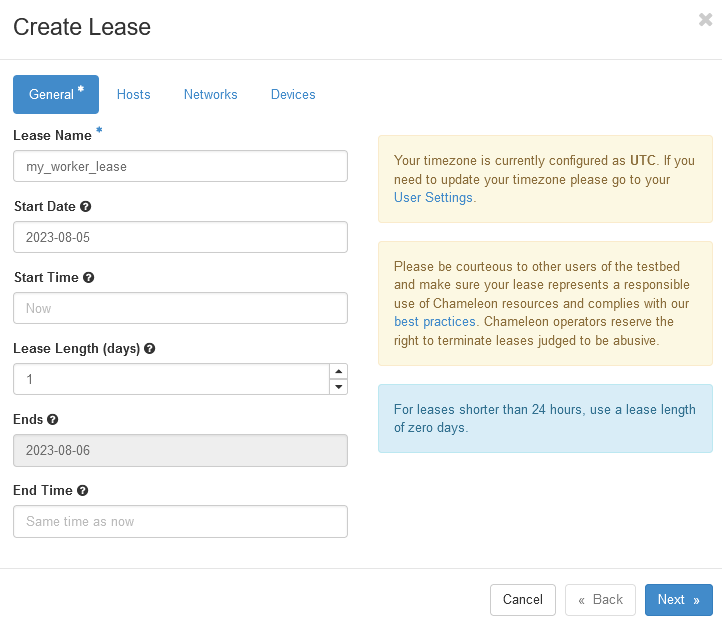
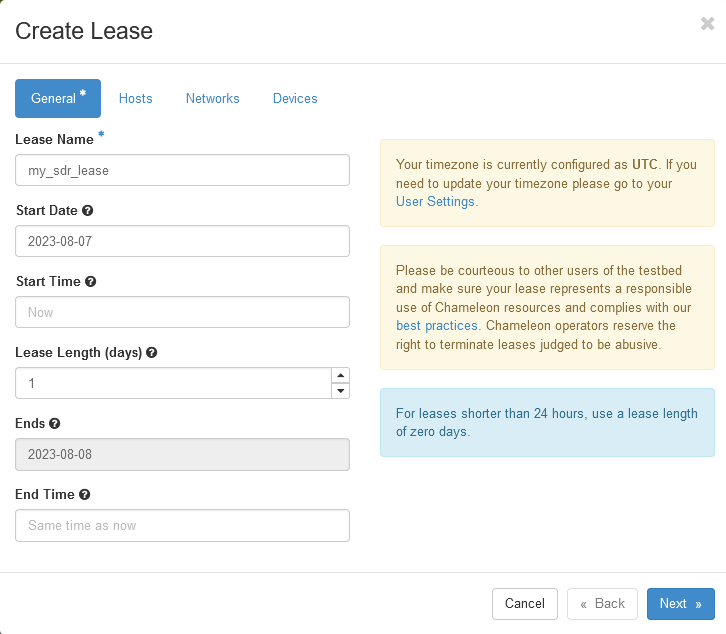
modified:   source/contents.rst 	modified:   source/reservation-sdr/create_lease01.png 	modified:   source/reservation-sdr/create_lease02.png 	deleted:    source/reservation-sdr/device_calendar.png 	new file:   source/reservation-sdr/hw_discovery_sdr.png 	deleted:    source/reservation-sdr/hw_discov

diff --git a/source/reservation-sdr/index.rst b/source/reservation-sdr/index.rst
@@ -1,30 +1,29 @@
-.. _reservation-worker:
+.. _reservation-sdr:
 
-============================
-Reservation of a worker node
-============================
+=====================
+Reservation of an SDR
+=====================
 
-This guide will walk you through the steps of looking up worker node resources and
-reserving a worker node.
+This guide will walk you through the steps of looking up SDR (Software Defined Radio) resources and
+reserving an SDR.
 
 Step 1: Check Hardware discovery
 ================================
 
 * From the ExPECA home page, click *Hardware discovery*
-* Look up a worker node that satisfies your requirements
+* Look up an SDR that satisfies your requirements. Note the "segment ID" for the SDR. You will use it later to make your reservation.
 
-.. figure:: hw_discovery_worker.png
-  :alt: Hardware discovery, worker node
+.. figure:: hw_discovery_sdr.png
+  :alt: Hardware discovery, SDR
   :figclass: screenshot
 
-Step 2: Reserving a worker node
-===============================
+Step 2: Reserving an SDR
+========================
 
-We need to reserve a worker node for our use. ExPECA provides access to allocate and run
-Docker containerized applications on nodes.
-When you create a reservation for one or more nodes, only you
+We need to reserve an SDR for our use.
+When you create a reservation for one or more SDR units, only you
 and other users on your project will be able to use those nodes for the time
-specified. We will create a single day reservation for a worker node.
+specified. We will create a single day reservation for an SDR.
 
 * In the sidebar, click *Reservations* -> *Leases*
 
@@ -32,28 +31,29 @@ specified. We will create a single day reservation for a worker node.
   :alt: Main lease view
   :figclass: screenshot
 
-* Click *Device Calendar*. This shows the current worker node reservations in the system. Make sure the worker node
+* Click *Network Calendar*. This shows the current SDR reservations (identified by "segment ID") in the system. Make sure the SDR
   you want is not reserved for the time you need it.
 
-.. figure:: device_calendar.png
-  :alt: Device calendar
+.. figure:: network_calendar.png
+  :alt: Network calendar
   :figclass: screenshot
 
 * Go back to the main lease page
 * Click on the *+ Create Lease* button in the toolbar
-* Type *my_worker_lease* for the lease name (or any name you want to call it)
+* Type *my_sdr_lease* for the lease name (or any name you want to call it)
 * Make sure you always select a Start Date
 
 .. figure:: create_lease01.png
   :alt: Create lease, image 1
   :figclass: screenshot
 
-* Check the *Devices* -> *Reserve Devices* box
-* Find the *Devices* -> *Resource Properties* section. In the dropdown below *machine_name*, select the worker node you want
-* Click the *Create* button
+* Check the *Networks* -> *Reserve Network* box
+* Type *sdr1_network* for the network name (or any name you want to call it, depending on which SDR you want)
+* Find the *Networks* -> *Resource Properties* section. In the dropdown below *vlan_id*, select the "segment ID" you have for the SDR you want.
+* Click the *Next* button, and then *Create*
 
 .. figure:: create_lease02.png
-  :alt: The Create Lease dialog
+  :alt: The Create Lease, image 2
   :figclass: screenshot
 
 The reservation will start shortly, at which point you can continue.

diff --git a/source/contents.rst b/source/contents.rst
@@ -14,5 +14,6 @@ Welcome to ExPECA
    :caption: Testbed operation
 
    reservation-worker/index
+   reservation-sdr/index
    container-basic/index
 
